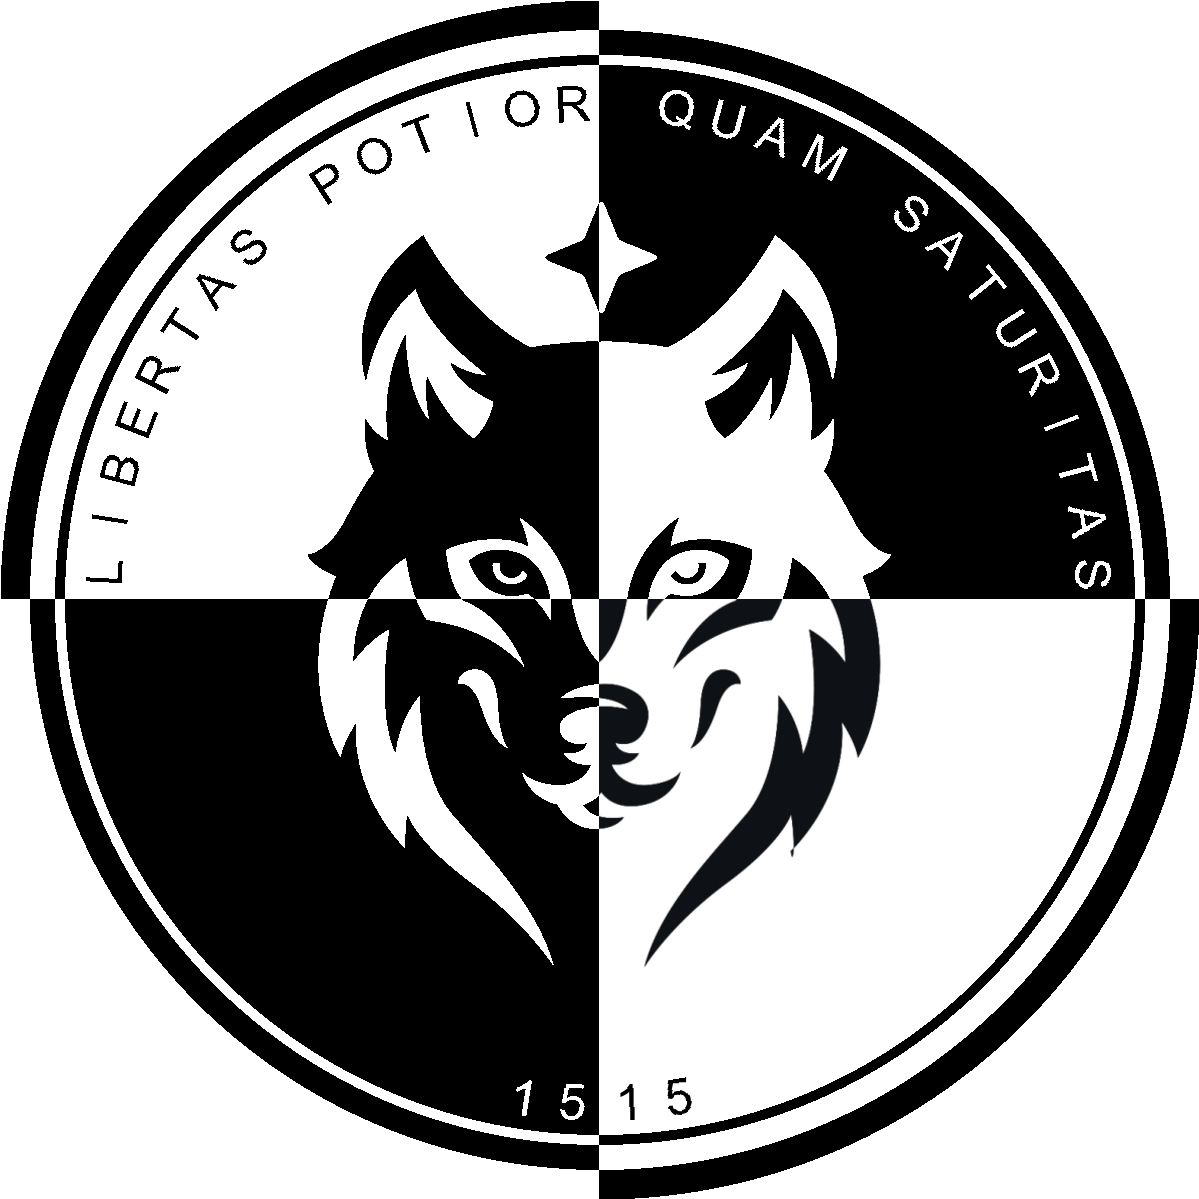
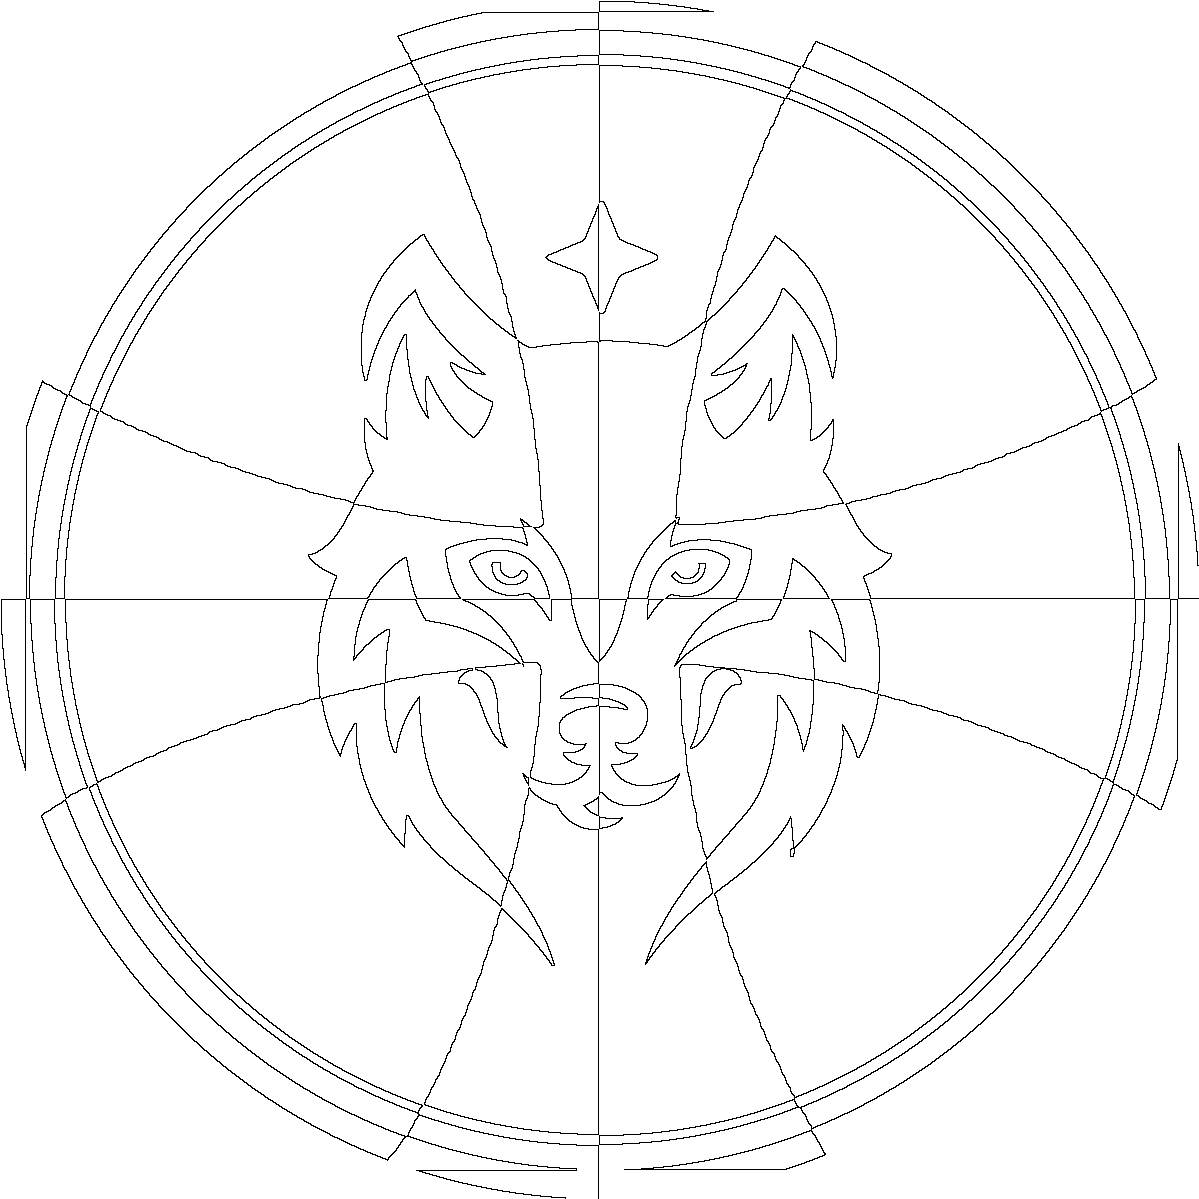
wip

diff --git a/keep_borders.py b/keep_borders.py
@@ -1,0 +1,43 @@
+#!/usr/bin/env python3
+import sys
+from PIL import Image
+
+
+im = Image.open(sys.argv[1])
+pix = im.load()
+
+def build_possibilities(x, y, size):
+    input = [(-1, -1), (-1,0),(-1,1), (1,1), (1, 0), (1, -1) ,(0,1), (0, -1)]
+    #input = [(-1,0), (1, 0), (0,1), (0, -1)]
+    output = []
+    for i in range(len(input)):
+        input[i] = (input[i][0] + x, input[i][1] + y)
+    for  i in input:
+        if i[0]>= 0 and i[1] >= 0 and i[0] < size[0] and i[1] < size[1]:
+            output.append(i)
+    return output
+
+def copy(array):
+    output = []
+    for x in range (im.size[0]):
+        output.append([])
+        for y in range(im.size[1]):
+            output[x].append(array[x,y])
+    return output
+    
+basepix = copy(pix)
+for x in range(0,im.size[0]):
+    for y in range(0,im.size[1]):
+        col = basepix[x][y]
+        if col[0] < 128:
+            poss = build_possibilities(x,y,im.size)
+            blank = 0
+            for p in poss:
+                if basepix[p[0]][ p[1]][0] > 128:
+                    blank = blank + 1
+            if blank:
+                pix[x, y]= (0,0,0,255)
+            else:
+                pix[x, y]= (255,255,255,255)
+
+im.save(sys.argv[1])
